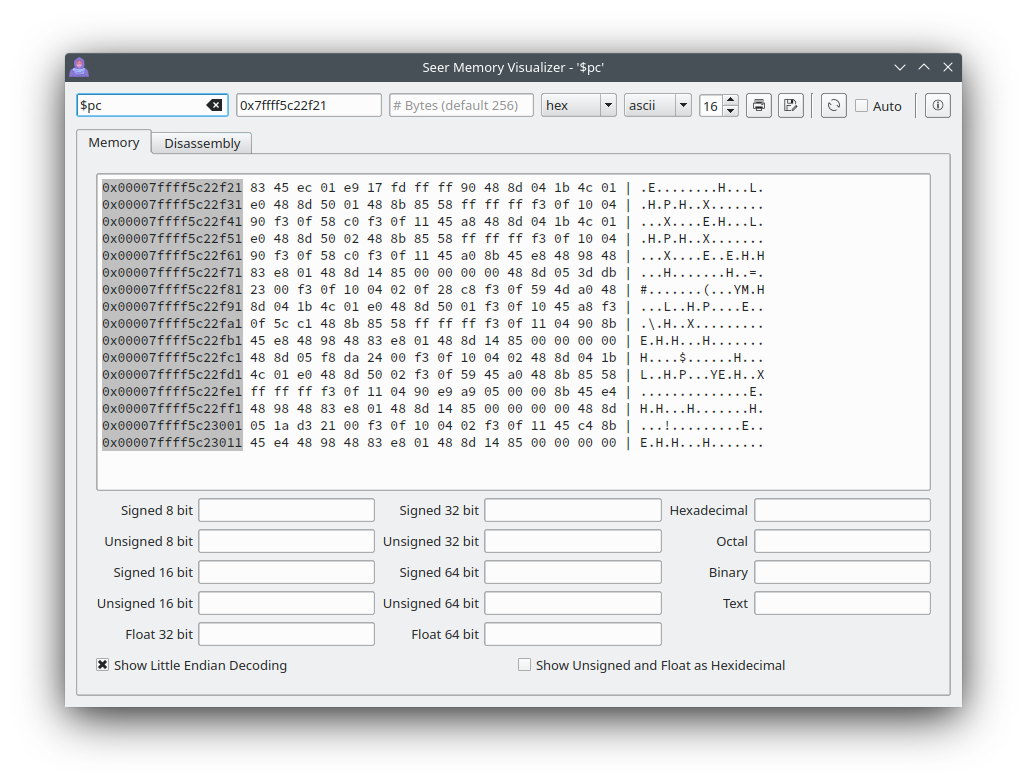
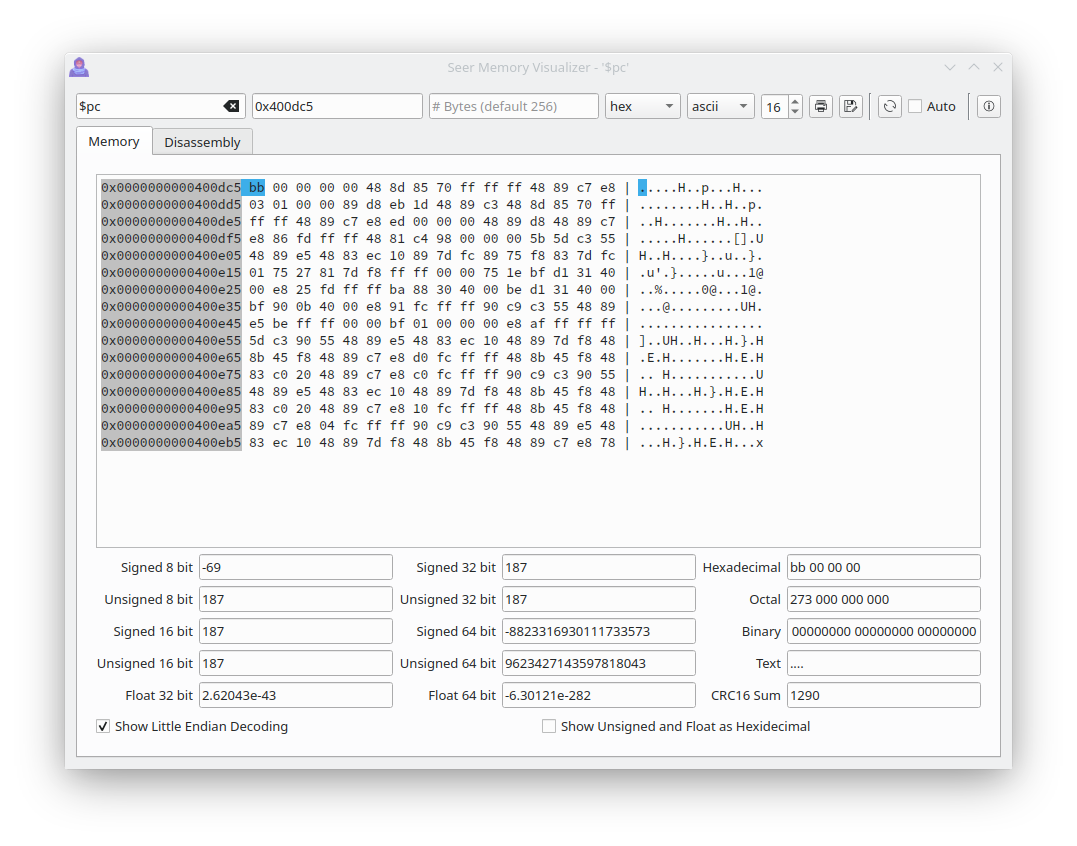
Update main page with latest screenshots.

Changed region(s): [[0.0312, 0.0612, 0.9659, 0.949]]

diff --git a/README.md b/README.md
@@ -167,10 +167,20 @@ Struct Visualizer
 -----------------
 
 When looking at the contents of a C/C++ struct or a C++ class in the Struct Visualizer, it looks like this.
-This example shows the contents of "*this" for the current C++ class that Seer is in.
+This example shows the contents of "*this" for the current C++ class that Seer is in. All structure members
+that are basic types can be edited.
 
 ![](images/structvisualizer.png)
 
+There is also a **Basic Struct Visualizer** that is more light weight, but can not follow pointers and can not
+be edited.
+
+Image Visualizer
+-----------------
+
+When looking at the contents of raw memory that is an image, the Image Visualizer can be used.
+
+![](images/imagevisualizer.png)
 
 Starting Seer
 =============
